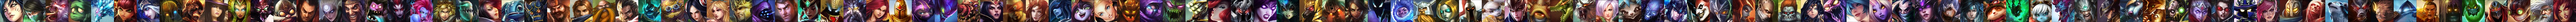
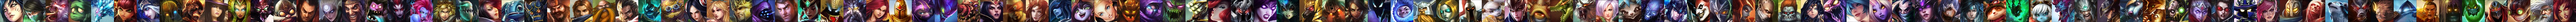
Reduce item image connections.

Changed region(s): [[0.5308, 0.0, 0.5621, 1.0]]

diff --git a/src/main/java/teemowork/model/Item.java b/src/main/java/teemowork/model/Item.java
@@ -15,10 +15,15 @@ import static teemowork.model.Status.*;
 import java.util.ArrayList;
 import java.util.List;
 
+import js.util.jQuery;
+
 /**
  * @version 2013/06/06 20:22:51
  */
 public class Item extends Describable<ItemDescriptor> {
+
+    /** The counter for id. */
+    private static int counter = 0;
 
     /** The item manager. */
     private static final List<Item> items = new ArrayList();
@@ -437,6 +442,9 @@ public class Item extends Describable<ItemDescriptor> {
     /** Zhonya's Hourglass */
     public static final Item ZhonyasHourglass = new Item(3157, "Zhonya's Hourglass");
 
+    /** The sequencial id. */
+    public final int position;
+
     /** The item id. */
     public final int id;
 
@@ -452,6 +460,7 @@ public class Item extends Describable<ItemDescriptor> {
      * @param string
      */
     Item(int id, String name) {
+        this.position = counter++;
         this.id = id;
         this.name = name;
 
@@ -460,13 +469,14 @@ public class Item extends Describable<ItemDescriptor> {
 
     /**
      * <p>
-     * Returns icon image path.
+     * Apply icon image.
      * </p>
-     * 
-     * @return
      */
-    public String getIcon() {
-        return "src/main/resources/teemowork/item/" + id + ".png";
+    public void applyIcon(jQuery element) {
+        element.css("background-image", "url(src/main/resources/teemowork/items.jpg)")
+                .css("background-position", position / (counter - 1) * 100 + "% 0%")
+                .css("background-size", "cover")
+                .css("background-origin", "border-box");
     }
 
     /**

diff --git a/src/test/java/teemowork/tool/ClientImageBuilder.java b/src/test/java/teemowork/tool/ClientImageBuilder.java
@@ -15,11 +15,12 @@ import java.util.ArrayList;
 import java.util.List;
 
 import kiss.I;
+import teemowork.model.Item;
 import teemowork.model.Mastery;
 import teemowork.tool.image.EditableImage;
 
 /**
- * @version 2013/03/29 13:33:23
+ * @version 2013/06/09 11:58:12
  */
 public class ClientImageBuilder {
 
@@ -140,6 +141,35 @@ public class ClientImageBuilder {
 
     /**
      * <p>
+     * Create item icon set.
+     * </p>
+     */
+    public void buildItemIconSet() {
+        List<Item> items = new ArrayList();
+
+        for (Field field : Item.class.getFields()) {
+            if (field.getType() == Item.class) {
+                try {
+                    items.add((Item) field.get(null));
+                } catch (Exception e) {
+                    throw I.quiet(e);
+                }
+            }
+        }
+
+        EditableImage container = new EditableImage();
+
+        for (Item item : items) {
+            EditableImage image = new EditableImage(ResourceLocator.ItemIcons.resolve(item.id + ".png"));
+            image.trim(2).resize(45);
+
+            container.concat(image);
+        }
+        container.write(ResourceLocator.Resources.resolve("items.jpg"));
+    }
+
+    /**
+     * <p>
      * Entry point.
      * </p>
      * 
@@ -149,5 +179,6 @@ public class ClientImageBuilder {
         ClientImageBuilder builder = new ClientImageBuilder();
         builder.buildChampionIconSet();
         builder.buildMasteryIconSet();
+        builder.buildItemIconSet();
     }
 }

diff --git a/src/main/java/teemowork/ChampionDetail.java b/src/main/java/teemowork/ChampionDetail.java
@@ -33,6 +33,7 @@ import teemowork.ChampionDetailStyle.Current;
 import teemowork.ChampionDetailStyle.DescriptionBox;
 import teemowork.ChampionDetailStyle.IconBox;
 import teemowork.ChampionDetailStyle.ItemIcon;
+import teemowork.ChampionDetailStyle.ItemIconBase;
 import teemowork.ChampionDetailStyle.ItemViewBox;
 import teemowork.ChampionDetailStyle.Level;
 import teemowork.ChampionDetailStyle.LevelBox;
@@ -224,6 +225,10 @@ public class ChampionDetail extends Page {
         }
 
         for (StatusView box : statuses) {
+            box.calcurate();
+        }
+
+        for (ItemView box : items) {
             box.calcurate();
         }
     }
@@ -585,7 +590,18 @@ public class ChampionDetail extends Page {
          */
         public ItemView(Item item, jQuery root) {
             this.item = item;
-            this.icon = root.child(ItemIcon.class);
+            this.icon = root.child(ItemIconBase.class).child(ItemIcon.class);
+        }
+
+        /**
+         * <p>
+         * Calcurate status and show it
+         * </p>
+         */
+        private void calcurate() {
+            if (item != null) {
+                item.applyIcon(icon);
+            }
         }
     }
 }

diff --git a/src/main/java/teemowork/ChampionDetailStyle.java b/src/main/java/teemowork/ChampionDetailStyle.java
@@ -368,9 +368,18 @@ class ChampionDetailStyle {
 
         {
             display.flex();
-            box.width(ItemIconSize.multiply(12));
+            box.width(ItemIconSize.multiply(6));
             margin.left(137, px);
-            justifyContent.spaceBetween();
+        }
+    }
+
+    class ItemIconBase extends CSS {
+
+        {
+            display.block();
+            box.size(ItemIconSize);
+            background.image("src/main/resources/teemowork/item/empty.png").cover();
+            padding.size(3, px);
         }
     }
 
@@ -378,8 +387,7 @@ class ChampionDetailStyle {
 
         {
             display.block();
-            box.size(ItemIconSize);
-            background.image("src/main/resources/teemowork/item/empty.png").cover();
+            box.size(100, percent);
         }
     }
 }

diff --git a/src/main/java/teemowork/ItemCatalog.java b/src/main/java/teemowork/ItemCatalog.java
@@ -47,7 +47,7 @@ public class ItemCatalog extends Page {
 
             jQuery element = root.child(ItemCatalogStyle.ItemPanel.class);
             jQuery icons = element.child(ItemCatalogStyle.IconPanel.class);
-            icons.child(ItemCatalogStyle.Icon.class).css("background-image", "url(" + item.getIcon() + ")");
+            item.applyIcon(icons.child(ItemCatalogStyle.Icon.class));
 
             jQuery descriptions = element.child(ItemCatalogStyle.DescriptionPanel.class);
             jQuery names = descriptions.child(ItemCatalogStyle.Names.class);

diff --git a/src/main/java/teemowork/ItemCatalogStyle.java b/src/main/java/teemowork/ItemCatalogStyle.java
@@ -122,7 +122,7 @@ class ItemCatalogStyle {
         {
             display.inlineBlock();
             box.size(size, px);
-            background.contain().size(size + 2, px).horizontal(-1, px).vertical(-1, px);
+            background.cover();
             border.radius(5, px).color(50, 50, 50).width(1, px).solid();
             text.verticalAlign.middle();
         }

diff --git a/src/main/java/teemowork/TeemoworkTheme.java b/src/main/java/teemowork/TeemoworkTheme.java
@@ -29,7 +29,7 @@ public class TeemoworkTheme {
     class HTML extends CSS {
 
         {
-            font.family(Main);
+            font.family(Main).sansSerif();
             padding.horizontal(10, percent).top(10, px);
         }
     }
